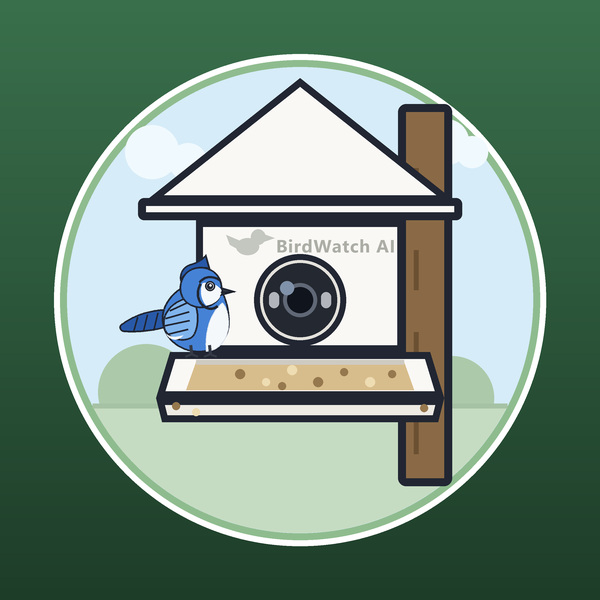
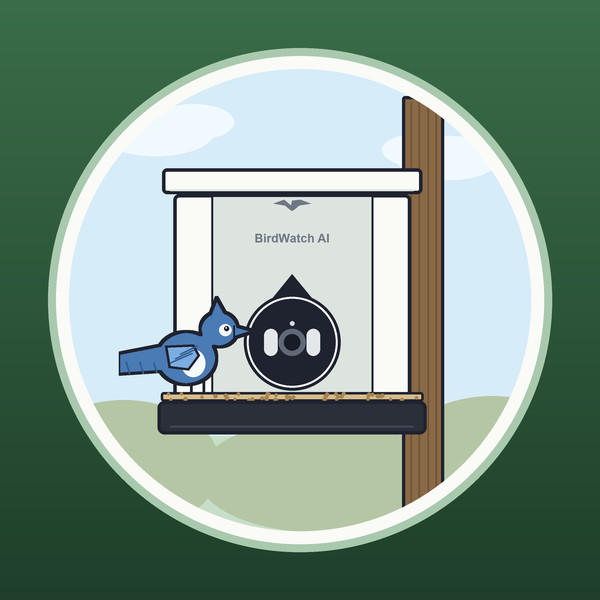
Gumroad tile: redraw the outdoor feeder to the R05 shape
product-feeder-outdoor.jpg still showed the retired peaked-roof design, so it
was two revisions behind the part. Redrawn to the current geometry: flat
overhanging slab roof, recessed front face between the two side pillars, the
O62 camera port with its teardrop notch, and the black seed tray.

Still a flat illustration, not a render -- it has to sit in the product-*.jpg
family, so the palette is sampled from the existing tiles and the ink weight
matches. The feeder inside it is laid out from real part dimensions (k px per
mm, X(mm)/Y(mm_z)), so it is a true elevation rather than an impression of one.

Gumroad serves its own copy of this image; the listing still needs the new file
uploaded in the product editor.

diff --git a/art/feeder-render/pipeline/tile.py b/art/feeder-render/pipeline/tile.py
@@ -1,0 +1,231 @@
+"""Gumroad product tile for the outdoor feeder — flat illustration, R05 geometry.
+
+Matches the rest of the product-*.jpg set: green gradient plate, pale ring, circular
+scene, thick dark outlines, limited palette. Drawn at 4x and downsampled.
+"""
+import os
+import numpy as np
+from PIL import Image, ImageDraw, ImageFont
+
+HERE = os.path.dirname(os.path.abspath(__file__))
+OUT = os.path.abspath(os.path.join(HERE, '..', '..', '..', 'images', 'product-feeder-outdoor.jpg'))
+
+S = 4                      # supersample
+W = 600                    # final size
+
+# palette lifted from the existing product-*.jpg tiles
+BG_TOP = (58, 109, 73)
+BG_BOT = (31, 63, 42)
+RING = (169, 201, 174)
+CREAM = (250, 250, 247)
+SKY = (214, 236, 249)
+GROUND = (199, 222, 200)
+BUSH = (181, 198, 164)
+INK = (31, 34, 47)
+SHELL = (250, 250, 247)
+SHELL_IN = (221, 228, 223)          # recessed centre panel
+WOOD = (138, 105, 70)
+WOOD_D = (110, 82, 54)
+TRAY = (42, 47, 58)
+SEED = (215, 189, 139)
+SEED_D = (166, 132, 82)
+GREY = (110, 120, 132)
+JAY = (74, 123, 181)
+JAY_L = (123, 173, 227)
+JAY_W = (245, 248, 250)
+
+
+def px(v):
+    return int(round(v * S))
+
+
+def rr(d, box, r, fill=None, outline=None, width=0):
+    d.rounded_rectangle([px(box[0]), px(box[1]), px(box[2]), px(box[3])],
+                        radius=px(r), fill=fill, outline=outline, width=px(width))
+
+
+def ell(d, box, fill=None, outline=None, width=0):
+    d.ellipse([px(box[0]), px(box[1]), px(box[2]), px(box[3])],
+              fill=fill, outline=outline, width=px(width))
+
+
+def poly(d, pts, fill=None, outline=None, width=0):
+    p = [(px(x), px(y)) for x, y in pts]
+    d.polygon(p, fill=fill, outline=outline, width=px(width) if width else 0)
+
+
+def font(size, bold=True):
+    path = r'C:\Windows\Fonts\arialbd.ttf' if bold else r'C:\Windows\Fonts\arial.ttf'
+    return ImageFont.truetype(path, px(size))
+
+
+def build():
+    N = W * S
+    # ---- background plate: vertical gradient -----------------------------
+    g = np.linspace(0, 1, N)[:, None]
+    grad = (np.array(BG_TOP) * (1 - g) + np.array(BG_BOT) * g)
+    img = Image.fromarray(np.repeat(grad[:, None, :], N, axis=1).astype(np.uint8))
+
+    # ---- the circular scene, drawn on its own layer then masked ----------
+    scene = Image.new('RGB', (N, N), SKY)
+    d = ImageDraw.Draw(scene)
+
+    CX, CY = 300, 300
+    R_SCENE = 231
+
+    # sky, clouds, horizon, bushes sitting on it
+    for (cx, cy, w, h) in ((156, 132, 58, 24), (194, 122, 40, 18), (448, 158, 52, 22), (416, 150, 34, 16)):
+        ell(d, (cx - w, cy - h, cx + w, cy + h), fill=(240, 249, 254))
+    HZ = 436
+    d.rectangle([0, px(HZ), N, N], fill=GROUND)
+    for (cx, cy, w, h) in ((124, HZ + 30, 96, 66), (492, HZ + 34, 104, 74), (318, HZ + 40, 120, 56)):
+        ell(d, (cx - w, cy - h, cx + w, cy + h), fill=BUSH)
+
+    # ---- post, behind the feeder ----------------------------------------
+    rr(d, (402, 96, 444, 512), 3, fill=WOOD, outline=INK, width=3.2)
+    for x in (411, 419, 428, 436):
+        d.line([px(x), px(102), px(x), px(506)], fill=WOOD_D, width=px(1.5))
+
+    # ---- feeder: flat front elevation of R05, to scale --------------------
+    # k px per mm; z0 is the image y of the part's z=0 (bottom of the tray)
+    k, z0, cx = 1.56, 428.0, 298.0
+
+    def X(mm):
+        return cx + mm * k
+
+    def Y(mm_z):
+        return z0 - mm_z * k
+
+    # body: 160 wide (x -83.8..76.2 about the bore axis at -3.8), z 0..150
+    rr(d, (X(-80.0), Y(150), X(72.4), Y(0)), 6, fill=SHELL, outline=INK, width=3.4)
+    # recessed centre face between the two side pillars (inner walls at -59 / +51.4)
+    d.rectangle([px(X(-55.2)), px(Y(148)), px(X(47.6)), px(Y(2))], fill=SHELL_IN)
+    for mm in (-55.2, 47.6):
+        d.line([px(X(mm)), px(Y(148)), px(X(mm)), px(Y(2))], fill=INK, width=px(2.0))
+
+    # roof: 174.4 wide x 16.5 thick, so it clears the body by only ~7 mm a side
+    rr(d, (X(-87.2), Y(166.5), X(79.6), Y(150)), 5, fill=SHELL, outline=INK, width=3.4)
+    d.line([px(X(-82)), px(Y(152.5)), px(X(74)), px(Y(152.5))], fill=(223, 228, 224), width=px(2.0))
+
+    # wordmark, moulded into the front face around z 118-140
+    f = font(12)
+    txt = 'BirdWatch AI'
+    tw = d.textlength(txt, font=f)
+    d.text((px(X(-3.8)) - tw / 2, px(Y(126))), txt, font=f, fill=GREY)
+    gx, gy = X(-3.8), Y(142)
+    poly(d, [(gx - 19, gy - 3), (gx - 8, gy - 7), (gx - 1, gy - 1), (gx, gy - 6),
+             (gx + 8, gy - 7), (gx + 19, gy - 3), (gx + 7, gy - 1), (gx + 1, gy + 4),
+             (gx - 1, gy + 4), (gx - 7, gy - 1)], fill=GREY)
+
+    # camera bay: the O62 port at z 55, with the teardrop notch the print has
+    PCX, PCY, PR = X(-3.8), Y(55), 31 * k
+    poly(d, [(PCX - 0.41 * PR, PCY - 0.91 * PR), (PCX, PCY - 1.41 * PR),
+             (PCX + 0.41 * PR, PCY - 0.91 * PR)], fill=INK, outline=INK, width=2.6)
+    ell(d, (PCX - PR, PCY - PR, PCX + PR, PCY + PR), fill=CREAM, outline=INK, width=3.0)
+    ell(d, (PCX - PR + 5, PCY - PR + 5, PCX + PR - 5, PCY + PR - 5), fill=INK)
+    for sx in (-1, 1):
+        rr(d, (PCX + sx * 0.44 * PR - 0.14 * PR, PCY - 0.28 * PR,
+               PCX + sx * 0.44 * PR + 0.14 * PR, PCY + 0.28 * PR), 0.14 * PR, fill=(228, 231, 234))
+    ell(d, (PCX - 0.28 * PR, PCY - 0.28 * PR, PCX + 0.28 * PR, PCY + 0.28 * PR), fill=(96, 105, 118))
+    ell(d, (PCX - 0.17 * PR, PCY - 0.17 * PR, PCX + 0.17 * PR, PCY + 0.17 * PR), fill=(24, 28, 38))
+    ell(d, (PCX - 0.05 * PR, PCY - 0.44 * PR, PCX + 0.05 * PR, PCY - 0.34 * PR), fill=(210, 216, 222))
+
+    # ---- tray: the black-filament base, drawn a touch proud so the depth reads
+    rr(d, (X(-88), Y(23), X(80.4), Y(17)), 3, fill=SEED, outline=INK, width=2.6)
+    rng = np.random.default_rng(5)
+    for _ in range(44):
+        sx = rng.uniform(X(-84), X(76)); sy = rng.uniform(Y(22), Y(18)); r = rng.uniform(1.5, 2.3)
+        ell(d, (sx - r, sy - r, sx + r, sy + r), fill=SEED_D)
+    rr(d, (X(-90), Y(17.5), X(82.4), Y(-4)), 7, fill=TRAY, outline=INK, width=3.2)
+    d.line([px(X(-82)), px(Y(1)), px(X(74)), px(Y(1))], fill=(64, 70, 84), width=px(2.2))
+
+    # ---- blue jay on the left end of the tray ----------------------------
+    jay(scene, BX=X(-70), BY=Y(23) - 29 * 1.26, sc=1.26)
+
+    # ---- mask the scene into the badge -----------------------------------
+    mask = Image.new('L', (N, N), 0)
+    ImageDraw.Draw(mask).ellipse([px(CX - R_SCENE), px(CY - R_SCENE), px(CX + R_SCENE), px(CY + R_SCENE)],
+                                 fill=255)
+    plate = ImageDraw.Draw(img)
+    ell(plate, (CX - 252, CY - 252, CX + 252, CY + 252), fill=RING)
+    ell(plate, (CX - 244, CY - 244, CX + 244, CY + 244), fill=CREAM)
+    img.paste(scene, (0, 0), mask)
+    return img.resize((W, W), Image.LANCZOS)
+
+
+def jay(target, BX=214.0, BY=342.0, sc=1.30):
+    """Flat blue jay, side view, facing right, perched on the seed.
+
+    Body/head/crest/tail/beak are unioned into one silhouette mask, and the outline
+    is taken from that mask — overlapping primitives never leave a seam. Offsets are
+    in body units; sc scales the whole bird about (BX, BY).
+    """
+    from scipy import ndimage
+    PAD = 70
+    x0, y0 = BX - PAD, BY - PAD
+    n = px(2 * PAD)
+
+    def P(*pts):
+        return [(px(BX + x * sc - x0), px(BY + y * sc - y0)) for x, y in pts]
+
+    def B(a, b, c, e):
+        return [px(BX + a * sc - x0), px(BY + b * sc - y0),
+                px(BX + c * sc - x0), px(BY + e * sc - y0)]
+
+    # ---- silhouette -----------------------------------------------------
+    sil = Image.new('L', (n, n), 0)
+    sd = ImageDraw.Draw(sil)
+    sd.ellipse(B(-26, -19, 22, 23), fill=255)                        # body
+    sd.ellipse(B(9, -35, 39, -7), fill=255)                          # head
+    sd.polygon(P((16, -31), (22, -46), (30, -32)), fill=255)         # crest
+    sd.polygon(P((-14, -10), (-65, 0), (-60, 15), (-12, 12)), fill=255)  # tail
+    sd.polygon(P((36, -24), (53, -19.5), (36, -14)), fill=255)       # beak
+    m = np.asarray(sil) > 127
+    t = max(1, px(1.15 * sc))
+    st = np.ones((3, 3), bool)
+    outer = ndimage.binary_dilation(m, st, iterations=t)
+    inner = ndimage.binary_erosion(m, st, iterations=t)
+
+    layer = Image.new('RGBA', (n, n), (0, 0, 0, 0))
+    rgba = np.asarray(layer).copy()
+    rgba[outer] = (*INK, 255)
+    rgba[inner] = (*JAY, 255)
+    layer = Image.fromarray(rgba)
+    ld = ImageDraw.Draw(layer)
+
+    # ---- markings, all inside the silhouette ----------------------------
+    ld.ellipse(B(-6, -5, 13, 17), fill=(*JAY_W, 255))                # pale breast
+    ld.polygon(P((-19, -8), (4, -9), (9, 0), (0, 12), (-16, 10)),
+               fill=(*JAY_L, 255), outline=(*INK, 255), width=px(1.9 * sc))
+    for i in range(3):                                               # wing coverts
+        a, b = P((-15 + i * 4, 6 - i * 3.5), (3 + i * 2, -2 - i * 3.0))
+        ld.line(a + b, fill=(52, 92, 140, 255), width=px(1.2 * sc))
+    for i in range(3):                                               # tail bars
+        a, b = P((-50 + i * 11, 4.6 + i * 0.4), (-47 + i * 11, 14.6 + i * 0.4))
+        ld.line(a + b, fill=(52, 92, 140, 255), width=px(1.2 * sc))
+    ld.ellipse(B(24, -25, 34, -15.5), fill=(*JAY_W, 255))            # face patch
+    ld.ellipse(B(28.0, -23.4, 32.0, -19.4), fill=(*INK, 255))        # eye
+    ld.ellipse(B(28.9, -22.7, 30.2, -21.4), fill=(*CREAM, 255))
+    a, b = P((36, -24), (36, -14))                                   # beak base
+    ld.line(a + b, fill=(*INK, 255), width=px(1.4 * sc))
+
+    # clip every marking back inside the silhouette
+    a = np.asarray(layer).copy()
+    a[~outer] = (0, 0, 0, 0)
+    layer = Image.fromarray(a)
+
+    # legs sit below the body, outside the silhouette
+    base = Image.new('RGBA', (n, n), (0, 0, 0, 0))
+    bd = ImageDraw.Draw(base)
+    for lx in (2, 12):
+        p = P((lx, 17), (lx, 29))
+        bd.line(p[0] + p[1], fill=(*INK, 255), width=px(2.1 * sc))
+    base.alpha_composite(layer)
+    target.paste(base, (px(x0), px(y0)), base)
+
+
+if __name__ == '__main__':
+    im = build()
+    im.save(OUT, quality=90, subsampling=0, optimize=True)
+    im.save(os.path.join(HERE, '_tile_preview.png'))
+    print('wrote', OUT, os.path.getsize(OUT), 'bytes')

diff --git a/art/feeder-render/README.md b/art/feeder-render/README.md
@@ -44,6 +44,30 @@ The garden background, the wooden post and the robin are lifted from the previou
 visual family — `compose.py` masks the old feeder out, rebuilds the post by mirror-tiling a
 clean slice of it, and diffuses the bokeh in behind. Only the feeder itself is CG.
 
+## Gumroad product tile
+
+`pipeline/tile.py` draws `images/product-feeder-outdoor.jpg` — the flat illustration used as
+the Gumroad product image. It is **not** a render; it is vector-style art that has to sit in
+the `product-*.jpg` family (green gradient plate, pale ring, circular scene, heavy dark
+outlines), so the palette is sampled from the existing tiles and hard-coded at the top.
+
+```bash
+python tile.py
+```
+
+The feeder in it is drawn to scale from the same numbers the render uses — `k` px per mm,
+`X(mm)` / `Y(mm_z)` map part coordinates to the canvas — so the flat elevation is honest:
+160 wide body, 174.4 roof clearing it by only ~7 mm a side, O62 port at z 55 with the
+teardrop notch, black tray below z 20.5. Editing the tile means editing those numbers, not
+nudging pixels.
+
+The blue jay is built by unioning its parts into one silhouette mask and taking the outline
+from that mask, because overlapping filled primitives with their own strokes always leave a
+seam where they meet.
+
+Note this file only updates the image in the repo. **Gumroad serves its own copy** — the
+listing has to be updated by uploading the new file in the Gumroad product editor.
+
 ## Known geometry note
 
 The teardrop print-support cut runs the full depth of the part, so it also removes the front
